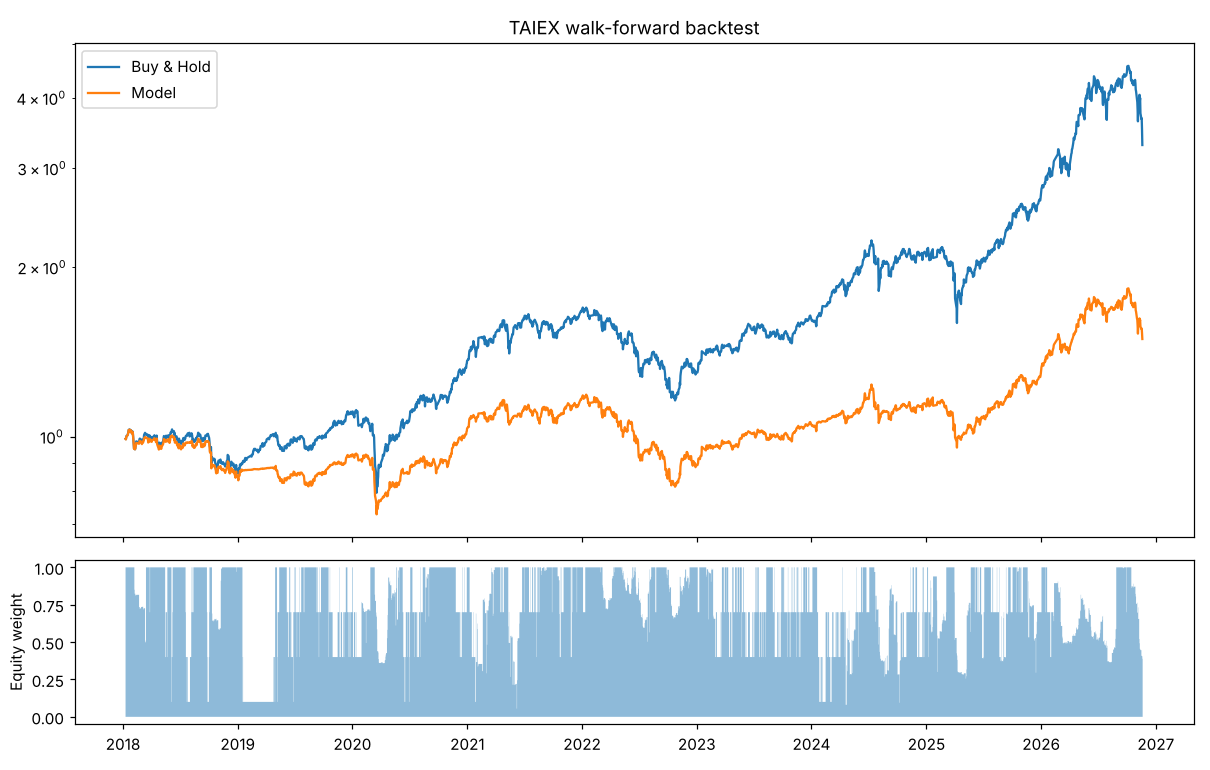
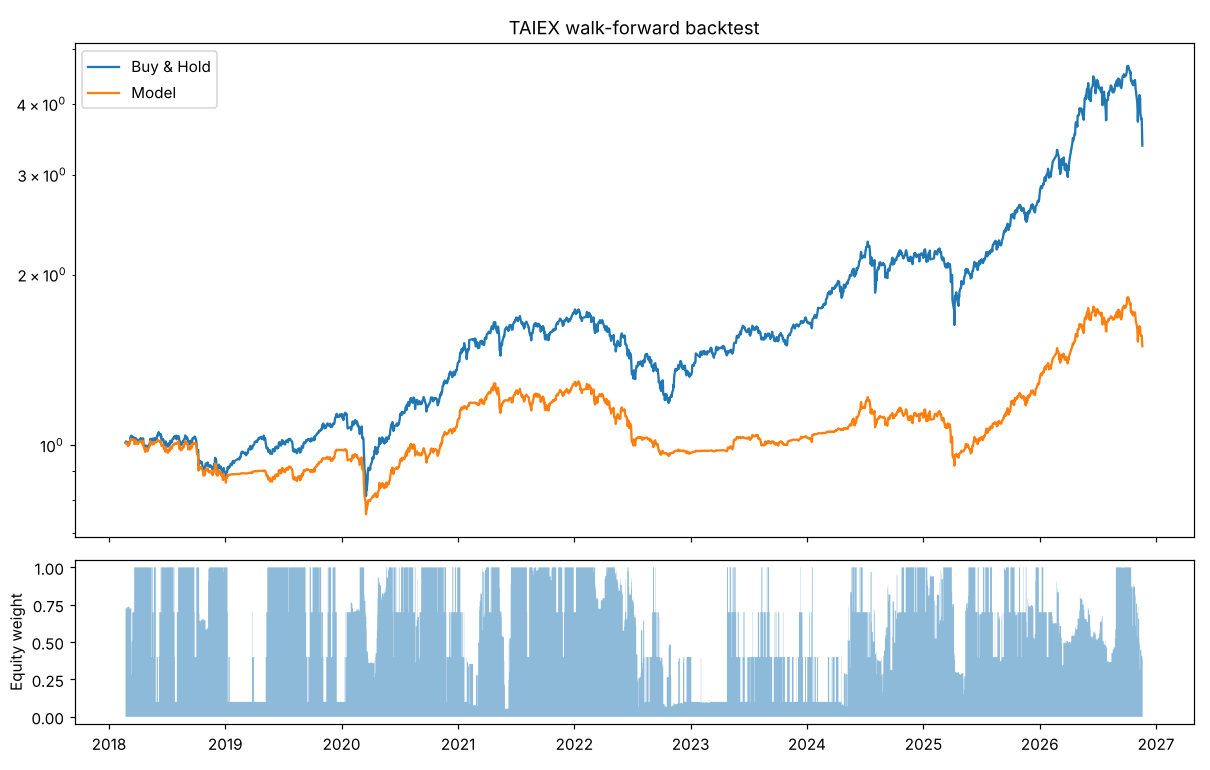
Re-run walk-forward with 2016+ chip and SOX/TNX factors; update reports and README
Claude-Session: https://claude.ai/code/session_01UsM1zCwgWmiKs5DvyU6uEx

diff --git a/tw-model/README.md b/tw-model/README.md
@@ -1,8 +1,9 @@
-# 台股加權指數 多因子機率模型 v1（2026-11-20）
+# 台股加權指數 多因子機率模型 v2（2026-11-21）
 
 ## 檔案
 - `fetch_twse.py`：抓證交所資料，可中斷續抓。`python fetch_twse.py monthly 2015-01`（OHLC、成交值）、`python fetch_twse.py daily 20160101`（三大法人、融資，由近到遠，每 4 秒 1 次）
-- `model.py`：因子、walk-forward 回測、今日預測。`python model.py`；本機有 yfinance 加 `--yf` 會加入費半 ^SOX、美債 ^TNX
+- `fetch_local.py`：本機或 GitHub Actions 執行。FinMind 開放 API 抓 2016 起三大法人、融資（來源為證交所，與證交所原始檔重疊 375 天逐日 100% 一致），yfinance 抓費半 ^SOX、美債 10 年 ^TNX，存到 `data/ext/`
+- `model.py`：因子、walk-forward 回測、今日預測。`python model.py`（`data/ext/` 有 sox/tnx 檔就自動納入；`--yf` 改為即時下載）
 - `data/`：原始資料（jsonl）、`data/ext/` VIX、USD/TWD
 - `reports/`：`model_accuracy.csv`、`backtest_summary.csv`、`calibration_20d.csv`、`today.json`、`equity.png`
 
@@ -14,28 +15,44 @@
 - 預期區間：RiskMetrics EWMA（λ=0.94）日波動，±1σ／±1.96σ 換算
 - 部位：波動度目標 18% 年化（Moreira & Muir, 2017）
 
-## 結果（2015-12～2026-11，樣本外 2,155 天）
-| | AUC | 命中率 | 恆猜漲 |
-|---|---|---|---|
-| 次日 logit / xgb | 0.487 / 0.514 | 53.5% / 53.0% | 55.0% |
-| 20日 logit / xgb | 0.437 / 0.465 | 56.3% / 56.2% | 62.8% |
+## 結果 v2（樣本 2016-02～2026-11，樣本外約 2,130 天）
+新增：法人（外資、投信、自營 1/5/20 日買賣超占成交值）、融資（5/20 日變化、融資相對指數）、費半（1/5/20 日報酬、相對台股）、美債 10 年（1/20 日變動 bp、水準）。籌碼因子延後 1 日（法人 15:00、融資約 21:30 公布）。AUC 附 95% 區塊 bootstrap 區間（20 日標籤重疊，區塊 20 天）。
 
-| 策略 | CAGR | 波動 | Sharpe | 最大回撤 |
+因子組合（logit＋XGBoost 平均）樣本外 AUC：
+| 因子組 | 次日 AUC | 20日 AUC [95% 區間] |
+|---|---|---|
+| v1（量價＋VIX＋匯率） | 0.500 | 0.448 [0.381, 0.507] |
+| 只用籌碼（法人＋融資） | 0.498 | 0.494 [0.432, 0.554] |
+| 只用費半美債 | 0.506 | 0.544 [0.467, 0.614] |
+| v1＋籌碼 | 0.494 | 0.472 [0.394, 0.538] |
+| 全部 32 因子 | 0.499 | 0.478 [0.410, 0.545] |
+
+單因子（`reports/factor_auc.csv`）：32 個因子中，20 日 AUC 最高為美債殖利率水準 0.532 [0.447, 0.610]；其餘全部低於 0.5，bias240、vol_ratio、margin_20 等的區間上界也低於 0.5，代表訓練期學到的方向在樣本外反轉（關係不穩定，不是可反向操作的訊號）。
+
+| 策略（成本單邊 0.1%） | CAGR | 波動 | Sharpe | 最大回撤 |
 |---|---|---|---|---|
-| 模型機率調部位 | 4.8% | 14.8% | 0.39 | -31.4% |
-| 買進持有（價格指數，未含息） | 15.0% | 20.2% | 0.79 | -31.6% |
-| 只做波動度目標 | 11.4% | 16.5% | 0.74 | -31.0% |
+| 模型：全部因子 | 4.9% | 14.0% | 0.41 | -29.0% |
+| 模型：只用費半美債 | 7.5% | 14.1% | 0.58 | -25.1% |
+| 模型：只用籌碼 | 7.0% | 14.8% | 0.53 | -32.5% |
+| 買進持有（價格指數，未含息） | 15.5% | 20.2% | 0.82 | -31.6% |
+| 只做波動度目標 | 11.9% | 16.4% | 0.77 | -31.0% |
 
-結論：量價＋VIX＋匯率因子沒有樣本外預測力；20 日機率甚至反向校準。只有波動度控部位有效。
-籌碼因子（外資、投信、融資）雲端只抓到 2025-06 起約 375 天就被證交所擋，樣本不足，尚未納入。
+結論：
+1. 補齊 2016 起法人、融資後，籌碼因子沒有樣本外預測力，加進 v1 也沒有改善。
+2. 費半美債組 20 日 AUC 0.544 最高，但未達 0.55 門檻，95% 區間含 0.5；且是 5 組 × 3 模型中挑出的最佳值，有多重比較偏誤（Harvey et al., 2016）。不採用。
+3. 所有模型策略的 Sharpe 都低於「只做波動度目標」0.77。維持原則：模型機率不當買賣訊號，部位只用波動度目標控制（Moreira & Muir, 2017）。
+4. 與文獻一致：多數預測變數在樣本外不勝過歷史平均（Welch & Goyal, 2008）。
 
 ## 限制
-- 雲端抓不到費半、美債、期交所（外資期貨未平倉、Put/Call、台指 VIX）
+- 雲端工作階段連不到證交所、FinMind、Yahoo；資料用 GitHub Actions 或本機 `fetch_local.py` 更新
+- 尚未納入期交所（外資期貨未平倉、Put/Call、台指 VIX）
 - 回測用價格指數，未含股息，買進持有報酬被低估約每年 3%
 - 極端事件（如 2026-11-20 單日 -6.23%）屬於厚尾，常態假設的區間會低估
 
 ## 參考文獻
+- Harvey, C. R., Liu, Y., & Zhu, H. (2016). …and the cross-section of expected returns. *The Review of Financial Studies, 29*(1), 5–68. https://doi.org/10.1093/rfs/hhv059
 - J.P. Morgan/Reuters. (1996). *RiskMetrics—Technical document* (4th ed.).
+- Künsch, H. R. (1989). The jackknife and the bootstrap for general stationary observations. *The Annals of Statistics, 17*(3), 1217–1241. https://doi.org/10.1214/aos/1176347265
 - López de Prado, M. (2018). *Advances in financial machine learning*. Wiley.
 - Moreira, A., & Muir, T. (2017). Volatility-managed portfolios. *The Journal of Finance, 72*(4), 1611–1644. https://doi.org/10.1111/jofi.12513
 - Welch, I., & Goyal, A. (2008). A comprehensive look at the empirical performance of equity premium prediction. *The Review of Financial Studies, 21*(4), 1455–1508. https://doi.org/10.1093/rfs/hhm014
